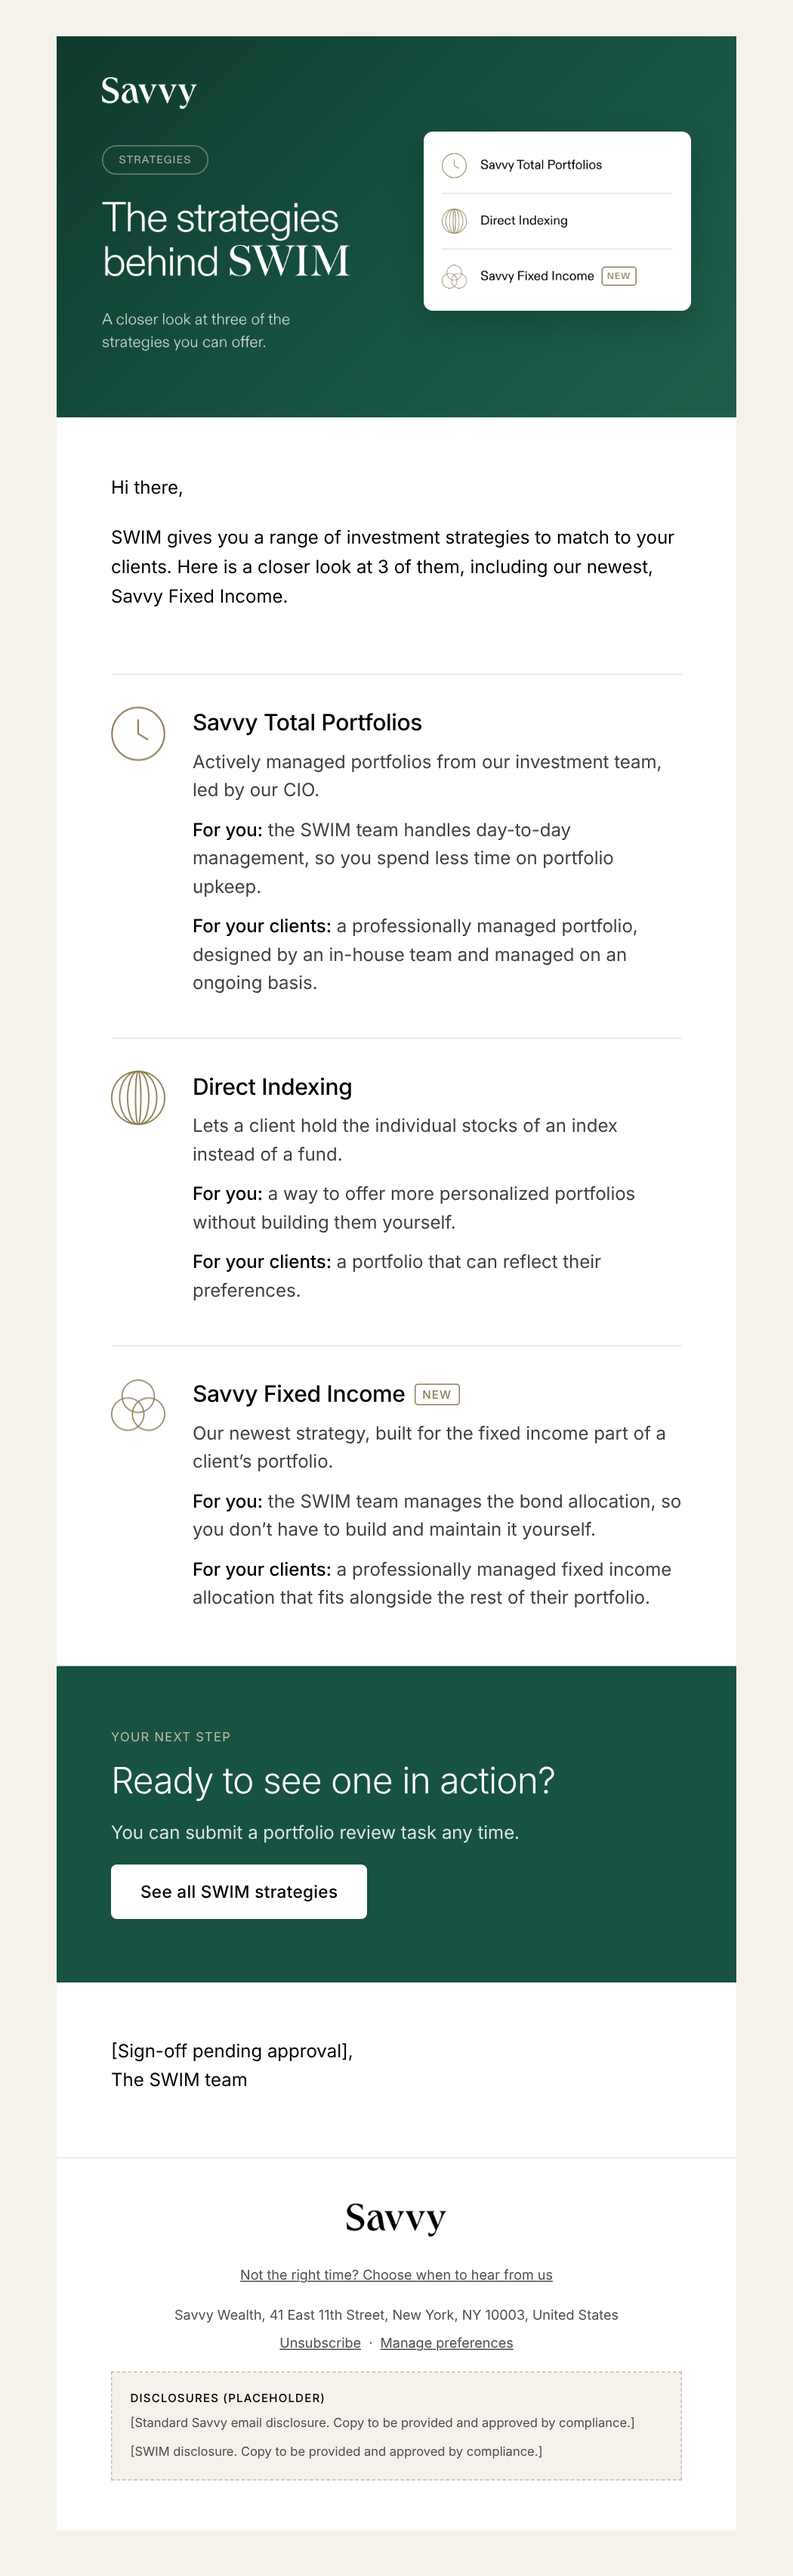
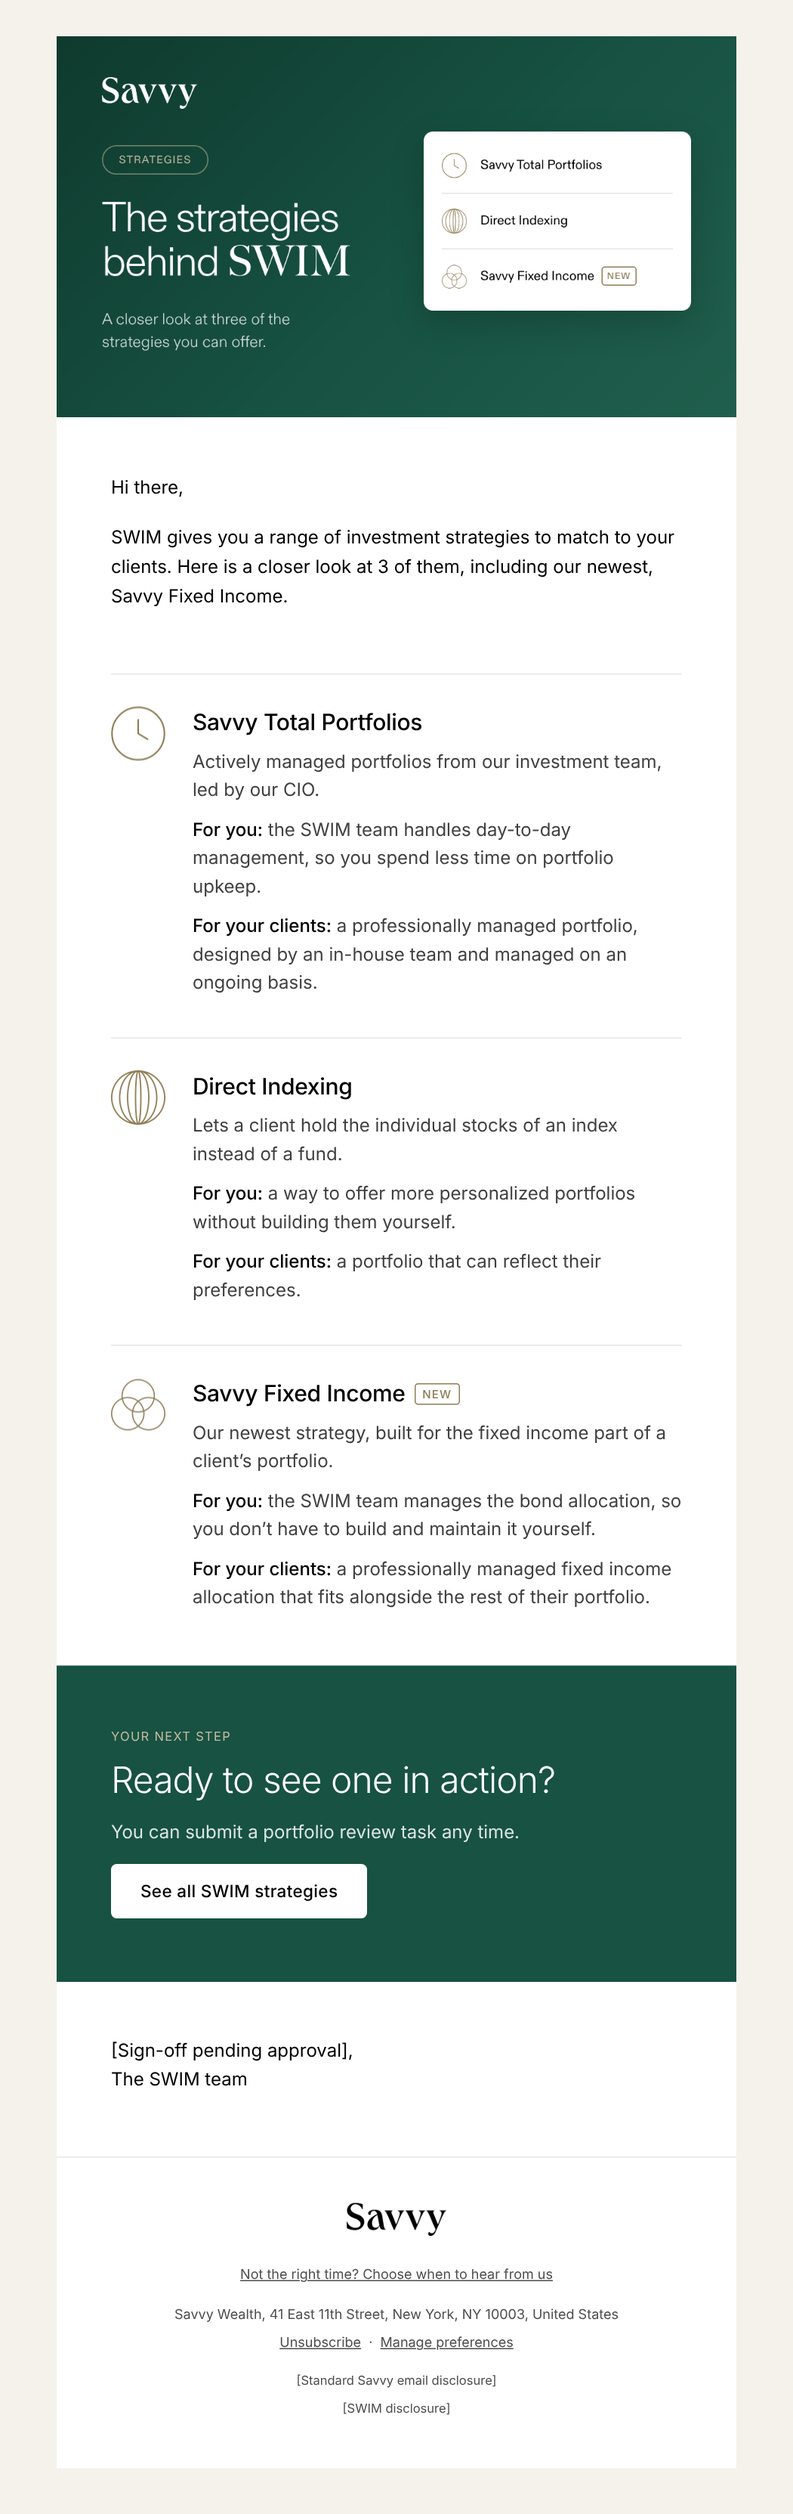
Emails 2 and 4: disclosure placeholders without internal annotation
Claude-Session: https://claude.ai/code/session_01C4U8FBFynJxChWkXC4yVRQ

diff --git a/emails/nurture-2.html b/emails/nurture-2.html
@@ -171,13 +171,10 @@
       <a href="#" style="color:#4D4D4D;text-decoration:underline;">Not the right time? Choose when to hear from us</a>
       <div style="margin-top:16px;">Savvy Wealth, 41 East 11th Street, New York, NY 10003, United States</div>
       <div style="margin-top:6px;"><a href="#" style="color:#4D4D4D;text-decoration:underline;">Unsubscribe</a> &nbsp;·&nbsp; <a href="#" style="color:#4D4D4D;text-decoration:underline;">Manage preferences</a></div>
-      <div style="margin-top:16px;text-align:left;"><table role="presentation" width="100%" cellpadding="0" cellspacing="0" border="0"><tr>
-      <td bgcolor="#F5F2EC" style="background:#F5F2EC;border:1px dashed #C7BCA1;padding:16px;font-family:'Inter',Arial,Helvetica,sans-serif;font-size:11px;line-height:17px;color:#4D4D4D;">
-        <div style="font-weight:500;color:#000000;letter-spacing:0.08em;text-transform:uppercase;font-size:10px;line-height:12px;">Disclosures (placeholder)</div>
-        <div style="margin-top:8px;">[Standard Savvy email disclosure. Copy to be provided and approved by compliance.]</div>
-        <div style="margin-top:8px;">[SWIM disclosure. Copy to be provided and approved by compliance.]</div>
-      </td>
-    </tr></table></div>
+      <div style="margin-top:16px;text-align:left;"><div style="font-family:'Inter',Arial,Helvetica,sans-serif;font-size:11px;line-height:17px;color:#4D4D4D;text-align:center;">
+        <div>[Standard Savvy email disclosure]</div>
+        <div style="margin-top:8px;">[SWIM disclosure]</div>
+      </div></div>
     </td></tr>
 
   </table>

diff --git a/emails/nurture-4.html b/emails/nurture-4.html
@@ -112,13 +112,10 @@
       <a href="#" style="color:#4D4D4D;text-decoration:underline;">Not the right time? Choose when to hear from us</a>
       <div style="margin-top:16px;">Savvy Wealth, 41 East 11th Street, New York, NY 10003, United States</div>
       <div style="margin-top:6px;"><a href="#" style="color:#4D4D4D;text-decoration:underline;">Unsubscribe</a> &nbsp;·&nbsp; <a href="#" style="color:#4D4D4D;text-decoration:underline;">Manage preferences</a></div>
-      <div style="margin-top:16px;text-align:left;"><table role="presentation" width="100%" cellpadding="0" cellspacing="0" border="0"><tr>
-      <td bgcolor="#F5F2EC" style="background:#F5F2EC;border:1px dashed #C7BCA1;padding:16px;font-family:'Inter',Arial,Helvetica,sans-serif;font-size:11px;line-height:17px;color:#4D4D4D;">
-        <div style="font-weight:500;color:#000000;letter-spacing:0.08em;text-transform:uppercase;font-size:10px;line-height:12px;">Disclosures (placeholder)</div>
-        <div style="margin-top:8px;">[Standard Savvy email disclosure. Copy to be provided and approved by compliance.]</div>
-        <div style="margin-top:8px;">[SWIM disclosure. Copy to be provided and approved by compliance.]</div>
-      </td>
-    </tr></table></div>
+      <div style="margin-top:16px;text-align:left;"><div style="font-family:'Inter',Arial,Helvetica,sans-serif;font-size:11px;line-height:17px;color:#4D4D4D;text-align:center;">
+        <div>[Standard Savvy email disclosure]</div>
+        <div style="margin-top:8px;">[SWIM disclosure]</div>
+      </div></div>
     </td></tr>
 
   </table>

diff --git a/emails/build_emails.py b/emails/build_emails.py
@@ -303,13 +303,10 @@ def footer(lead=None, notes=None):
 """
 
 
-DISCLOSURE = f"""<table role="presentation" width="100%" cellpadding="0" cellspacing="0" border="0"><tr>
-      <td bgcolor="#F5F2EC" style="background:#F5F2EC;border:1px dashed #C7BCA1;padding:16px;font-family:{SANS};font-size:11px;line-height:17px;color:#4D4D4D;">
-        <div style="font-weight:500;color:#000000;letter-spacing:0.08em;text-transform:uppercase;font-size:10px;line-height:12px;">Disclosures (placeholder)</div>
-        <div style="margin-top:8px;">[Standard Savvy email disclosure. Copy to be provided and approved by compliance.]</div>
-        <div style="margin-top:8px;">[SWIM disclosure. Copy to be provided and approved by compliance.]</div>
-      </td>
-    </tr></table>"""
+DISCLOSURE = f"""<div style="font-family:{SANS};font-size:11px;line-height:17px;color:#4D4D4D;text-align:center;">
+        <div>[Standard Savvy email disclosure]</div>
+        <div style="margin-top:8px;">[SWIM disclosure]</div>
+      </div>"""
 
 CHOOSE = '<a href="#" style="color:#4D4D4D;text-decoration:underline;">Not the right time? Choose when to hear from us</a>'
 
